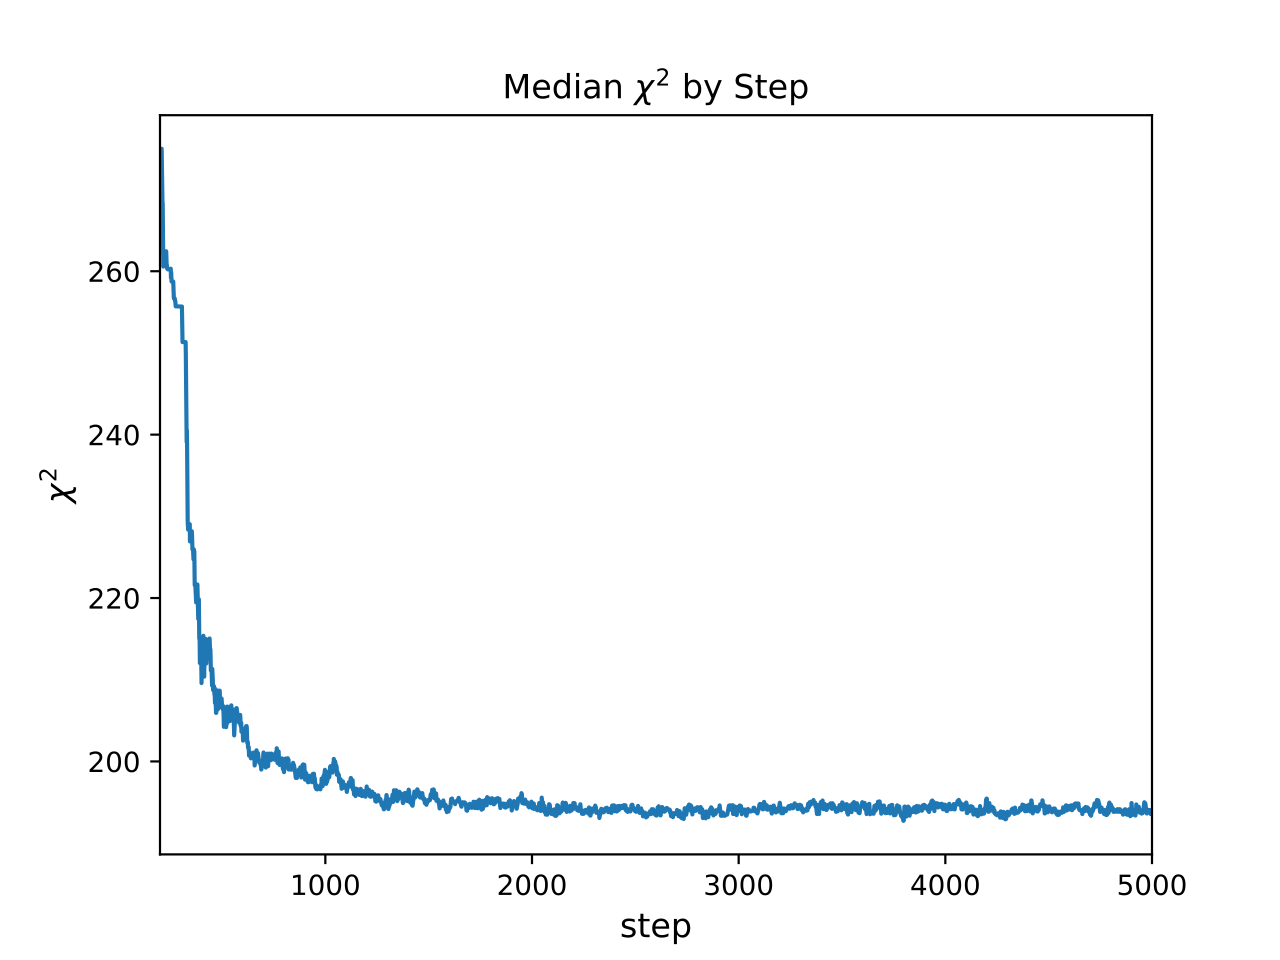
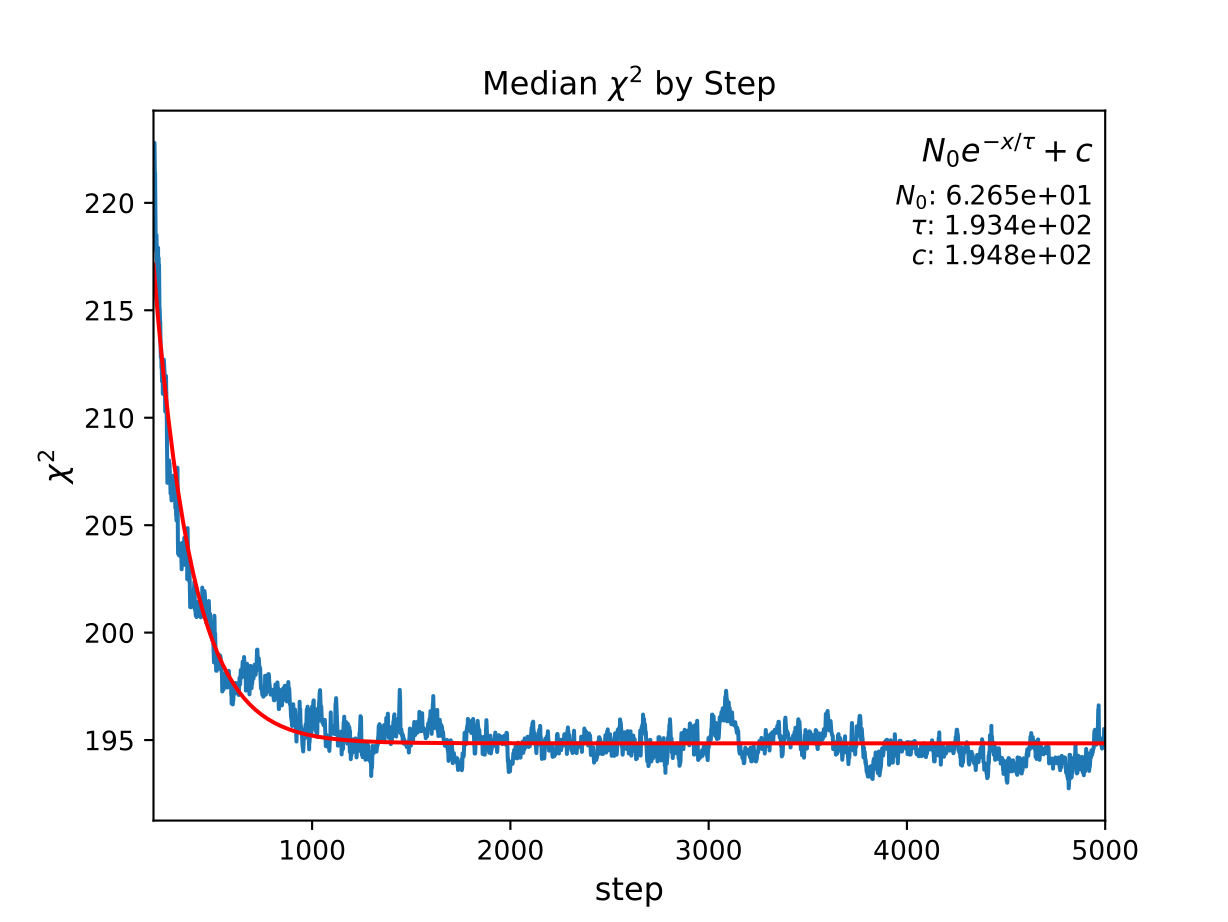
replaced chisqmed plot in outputs with new one
is it a problem that this plot is from a different run than the other
plots? Like technically they aren't consistent anymore about idk why
that would be important. It does have the same number of steps and
walkers though so its not visually wrong imo

diff --git a/docs/source/outputs.rst b/docs/source/outputs.rst
@@ -117,7 +117,7 @@ Science plots
 
 - ``chi_squared_plot_med.svg``
 
- Median of all walker's :math:`\chi^2` at each step.
+ Median of all walker's :math:`\chi^2` at each step. Fitted with exponential decay function.
  e.g.
 
  .. image:: ../figures/chi_squared_plot_med.png
